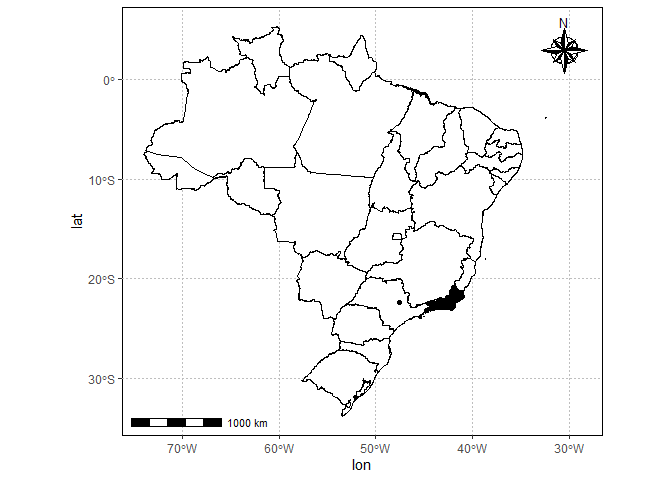
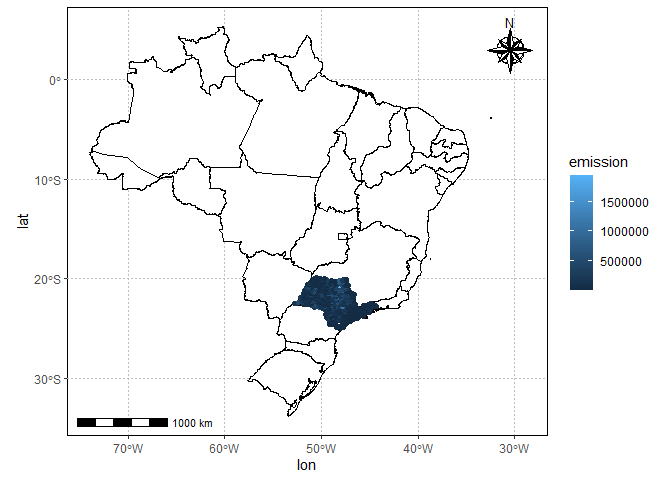
emissão agricultura

diff --git a/README.md b/README.md
@@ -22,6 +22,37 @@ source("R/gafico.R")
 ``` r
 emissions_sources <- read_rds("data/emissions_sources.rds")
 states <- read_rds("data/states.rds")
+brazil_ids <- read_rds("data/df_nome.rds")
+glimpse(brazil_ids)
+#> Rows: 5,570
+#> Columns: 25
+#> $ id_municipio              <chr> "1100338", "1100205", "1101104", "1100809", …
+#> $ id_municipio_6            <chr> "110033", "110020", "110110", "110080", "110…
+#> $ id_municipio_tse          <chr> "434", "35", "493", "477", "680", "779", "67…
+#> $ id_municipio_rf           <chr> "47", "3", "683", "681", "8", "4", "679", "1…
+#> $ id_municipio_bcb          <chr> "44516", "30719", "46851", "46961", "56652",…
+#> $ nome                      <chr> "Nova Mamoré", "Porto Velho", "Itapuã do Oes…
+#> $ capital_uf                <int> 0, 1, 0, 0, 0, 0, 0, 0, 0, 0, 0, 0, 0, 0, 0,…
+#> $ id_comarca                <chr> "1100106", "1100205", "1100205", "1100205", …
+#> $ id_regiao_saude           <chr> "11004", "11004", "11004", "11004", "11001",…
+#> $ nome_regiao_saude         <chr> "Madeira-Mamoré", "Madeira-Mamoré", "Madeira…
+#> $ id_regiao_imediata        <chr> "110001", "110001", "110001", "110001", "110…
+#> $ nome_regiao_imediata      <chr> "Porto Velho", "Porto Velho", "Porto Velho",…
+#> $ id_regiao_intermediaria   <chr> "1101", "1101", "1101", "1101", "1101", "110…
+#> $ nome_regiao_intermediaria <chr> "Porto Velho", "Porto Velho", "Porto Velho",…
+#> $ id_microrregiao           <chr> "11001", "11001", "11001", "11001", "11001",…
+#> $ nome_microrregiao         <chr> "Porto Velho", "Porto Velho", "Porto Velho",…
+#> $ id_mesorregiao            <chr> "1101", "1101", "1101", "1101", "1101", "110…
+#> $ nome_mesorregiao          <chr> "Madeira-Guaporé", "Madeira-Guaporé", "Madei…
+#> $ id_regiao_metropolitana   <chr> NA, "101", NA, "101", NA, NA, NA, NA, NA, NA…
+#> $ nome_regiao_metropolitana <chr> NA, "Região Metropolitana de Porto Velho", N…
+#> $ ddd                       <chr> "69", "69", "69", "69", "69", "69", "69", "6…
+#> $ id_uf                     <chr> "11", "11", "11", "11", "11", "11", "11", "1…
+#> $ sigla_uf                  <chr> "RO", "RO", "RO", "RO", "RO", "RO", "RO", "R…
+#> $ nome_uf                   <chr> "Rondônia", "Rondônia", "Rondônia", "Rondôni…
+#> $ nome_regiao               <chr> "Norte", "Norte", "Norte", "Norte", "Norte",…
+nomes_uf <- c(brazil_ids$nome_uf %>% unique(),"Brazil")
+abbrev_states <- brazil_ids$sigla_uf %>% unique()
 ```
 
 ### Lendo o polígono dos estados
@@ -41,3 +72,110 @@ states  %>%
 ```
 
 ![](README_files/figure-gfm/unnamed-chunk-4-1.png)<!-- -->
+
+``` r
+emissions_sources %>% 
+  filter(sigla_uf == "AC",
+         year == 2022,
+         gas == "co2e_100yr",
+         sector_name == "forestry",
+         source_name != "Acre") %>% 
+  group_by(sub_sector) %>% 
+  arrange(emissions_quantity %>% desc()) %>% #select(source_name, emissions_quantity)
+  summarise(
+    emission = sum(emissions_quantity, na.rm = TRUE)
+  ) %>% 
+#  filter(str_detect(sub_sector,"^n")) %>% 
+  mutate(
+    emission_cumulatice = cumsum(emission)
+  )
+#> # A tibble: 9 × 3
+#>   sub_sector                emission emission_cumulatice
+#>   <chr>                        <dbl>               <dbl>
+#> 1 forest-land-clearing     70906521.           70906521.
+#> 2 forest-land-degradation   5664018.           76570539.
+#> 3 forest-land-fires        11514212.           88084751.
+#> 4 net-forest-land         -11603290.           76481461.
+#> 5 net-shrubgrass           -1279601.           75201860.
+#> 6 net-wetland                 -3499.           75198360.
+#> 7 removals                -88142790.          -12944430.
+#> 8 shrubgrass-fires           152575.          -12791855.
+#> 9 wetland-fires                1511.          -12790344.
+```
+
+``` r
+states  %>%
+  ggplot() +
+  geom_sf(fill="white", color="black",
+          size=.15, show.legend = FALSE) +
+  geom_point(
+    data = emissions_sources %>% 
+  filter(sigla_uf == "SP",
+         year == 2022,
+         gas == "co2e_100yr",
+         sector_name == "agriculture",
+         source_name != "São Paulo") %>% 
+    group_by(sector_name,lat,lon) %>% 
+    summarise(
+      emission = sum(emissions_quantity)
+    ),
+    aes(lon,lat,color=emission)) +
+  tema_mapa()
+```
+
+![](README_files/figure-gfm/unnamed-chunk-6-1.png)<!-- -->
+
+``` r
+abbrev_states 
+#>  [1] "RO" "AC" "AM" "RR" "PA" "AP" "TO" "MA" "PI" "CE" "RN" "PB" "PE" "AL" "SE"
+#> [16] "BA" "MG" "ES" "RJ" "SP" "PR" "SC" "RS" "MS" "MT" "GO" "DF"
+for(i in seq_along(abbrev_states[-27])){
+  my_state <- abbrev_states[i]
+  my_plot <- states %>%
+    filter(abbrev_state == my_state) %>% 
+    ggplot() +
+    geom_sf(fill="white", color="black",
+            size=.15, show.legend = FALSE) +
+    tema_mapa() +
+    geom_point(data = emissions_sources %>% 
+                 filter(sigla_uf == my_state,
+                        year == 2022,
+                        gas == "co2e_100yr",
+                        sector_name == "agriculture",
+                        !source_name %in% nomes_uf) %>% 
+                 group_by(source_name,lat,lon) %>% 
+                 summarise(
+                   emission = sum(emissions_quantity)
+                 ) %>% 
+                 ungroup(), 
+               aes(lon, lat, size = emission, color=emission))+
+    labs(title = my_state)
+  
+  my_col <- emissions_sources %>% 
+    filter(sigla_uf == my_state,
+           year == 2022,
+           gas == "co2e_100yr",
+           sector_name == "agriculture",
+           !source_name %in% nomes_uf) %>% 
+    group_by(source_name,lat,lon) %>% 
+    summarise(
+      emission = sum(emissions_quantity),
+    ) %>% 
+    ungroup() %>% 
+    filter(emission > quantile(emission,.75)) %>% 
+    mutate(
+      perc = emission/sum(emission),
+      source_name = source_name %>% fct_lump(n=15,w=perc) %>%
+        fct_reorder(emission)) %>%
+    filter(source_name != "Other") %>% 
+    ggplot(aes(x=source_name, y= emission))+
+    geom_col(fill="gray",color="black") +
+    coord_flip() +
+    theme_bw() +
+    labs(title = my_state)    
+  print(my_plot)
+  print(my_col)
+}
+```
+
+![](README_files/figure-gfm/unnamed-chunk-7-1.png)<!-- -->![](README_files/figure-gfm/unnamed-chunk-7-2.png)<!-- -->![](README_files/figure-gfm/unnamed-chunk-7-3.png)<!-- -->![](README_files/figure-gfm/unnamed-chunk-7-4.png)<!-- -->![](README_files/figure-gfm/unnamed-chunk-7-5.png)<!-- -->![](README_files/figure-gfm/unnamed-chunk-7-6.png)<!-- -->![](README_files/figure-gfm/unnamed-chunk-7-7.png)<!-- -->![](README_files/figure-gfm/unnamed-chunk-7-8.png)<!-- -->![](README_files/figure-gfm/unnamed-chunk-7-9.png)<!-- -->![](README_files/figure-gfm/unnamed-chunk-7-10.png)<!-- -->![](README_files/figure-gfm/unnamed-chunk-7-11.png)<!-- -->![](README_files/figure-gfm/unnamed-chunk-7-12.png)<!-- -->![](README_files/figure-gfm/unnamed-chunk-7-13.png)<!-- -->![](README_files/figure-gfm/unnamed-chunk-7-14.png)<!-- -->![](README_files/figure-gfm/unnamed-chunk-7-15.png)<!-- -->![](README_files/figure-gfm/unnamed-chunk-7-16.png)<!-- -->![](README_files/figure-gfm/unnamed-chunk-7-17.png)<!-- -->![](README_files/figure-gfm/unnamed-chunk-7-18.png)<!-- -->![](README_files/figure-gfm/unnamed-chunk-7-19.png)<!-- -->![](README_files/figure-gfm/unnamed-chunk-7-20.png)<!-- -->![](README_files/figure-gfm/unnamed-chunk-7-21.png)<!-- -->![](README_files/figure-gfm/unnamed-chunk-7-22.png)<!-- -->![](README_files/figure-gfm/unnamed-chunk-7-23.png)<!-- -->![](README_files/figure-gfm/unnamed-chunk-7-24.png)<!-- -->![](README_files/figure-gfm/unnamed-chunk-7-25.png)<!-- -->![](README_files/figure-gfm/unnamed-chunk-7-26.png)<!-- -->![](README_files/figure-gfm/unnamed-chunk-7-27.png)<!-- -->![](README_files/figure-gfm/unnamed-chunk-7-28.png)<!-- -->![](README_files/figure-gfm/unnamed-chunk-7-29.png)<!-- -->![](README_files/figure-gfm/unnamed-chunk-7-30.png)<!-- -->![](README_files/figure-gfm/unnamed-chunk-7-31.png)<!-- -->![](README_files/figure-gfm/unnamed-chunk-7-32.png)<!-- -->![](README_files/figure-gfm/unnamed-chunk-7-33.png)<!-- -->![](README_files/figure-gfm/unnamed-chunk-7-34.png)<!-- -->![](README_files/figure-gfm/unnamed-chunk-7-35.png)<!-- -->![](README_files/figure-gfm/unnamed-chunk-7-36.png)<!-- -->![](README_files/figure-gfm/unnamed-chunk-7-37.png)<!-- -->![](README_files/figure-gfm/unnamed-chunk-7-38.png)<!-- -->![](README_files/figure-gfm/unnamed-chunk-7-39.png)<!-- -->![](README_files/figure-gfm/unnamed-chunk-7-40.png)<!-- -->![](README_files/figure-gfm/unnamed-chunk-7-41.png)<!-- -->![](README_files/figure-gfm/unnamed-chunk-7-42.png)<!-- -->![](README_files/figure-gfm/unnamed-chunk-7-43.png)<!-- -->![](README_files/figure-gfm/unnamed-chunk-7-44.png)<!-- -->![](README_files/figure-gfm/unnamed-chunk-7-45.png)<!-- -->![](README_files/figure-gfm/unnamed-chunk-7-46.png)<!-- -->![](README_files/figure-gfm/unnamed-chunk-7-47.png)<!-- -->![](README_files/figure-gfm/unnamed-chunk-7-48.png)<!-- -->![](README_files/figure-gfm/unnamed-chunk-7-49.png)<!-- -->![](README_files/figure-gfm/unnamed-chunk-7-50.png)<!-- -->![](README_files/figure-gfm/unnamed-chunk-7-51.png)<!-- -->![](README_files/figure-gfm/unnamed-chunk-7-52.png)<!-- -->
